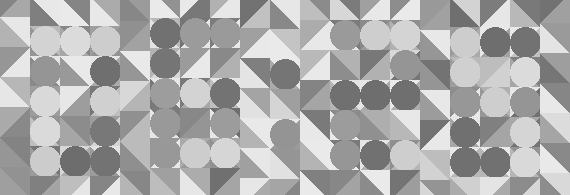
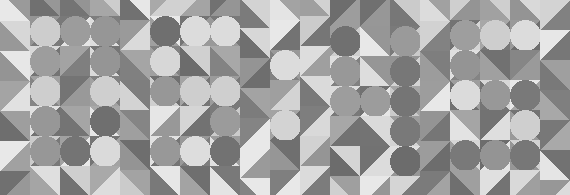
update readme; regenerate examples;

diff --git a/README.md b/README.md
@@ -5,12 +5,11 @@ Dynamically generated, AI-resistant captcha images.
 
 *Can you tell what time it is? AI can't.*
 
-Color-captcha uses high-order shapes to hide meaningful content from an AI. 
-AI can recognize that the image is made up of triangles, squares and circles. 
-However, it cannot distinguish higher-order shapes that appear in the image. 
-Variable, randomized colors make this task even more difficult for the machine
-as it observes RGB layers separately. 
-To the human eye, however, the numbers are clearly visible. 
+Color-captcha uses higher-order shapes to hide the information from an AI. 
+AI can recognize that the image is made up of triangles, squares and circles.
+However, it cannot recognize that these shapes form more complex higher-order shapes, in this case numbers. 
+The numbers, therefore, remain hidden in plain sight.
+The human eye, on the other hand, should be able to see the numbers with very little effort. 
 
 Features:
 * `ClockCaptcha` and `DigitsCaptcha` generators.
@@ -51,8 +50,8 @@ captcha.save_image('new_captcha.png')
 ```
 
 #### DigitsCaptcha
-Follows the same usage as ClockCaptcha except it can generate arbitrary number of 
-digits, and is not in the clock format.
+Same usage as ClockCaptcha except it can generate arbitrary number of 
+digits, and is not in the clock format, just plain digits. 
 
 ```python
 from color_captcha import DigitsCaptcha
@@ -64,10 +63,9 @@ captcha.generate_new()
 ```
 
 #### Size parameter
-Both ClockCaptcha and DigitsCaptcha have a `size` parameter. 
-This parameter changes the size of the image.
-Below are size parameter values and corresponding pixel values of the ClockCaptcha image.
-DigitsCaptcha varies in pixel size. 
+Both ClockCaptcha and DigitsCaptcha have the `size` parameter, which changes the size of the image.
+Below relative values in pixels for the ClockCaptcha image. 
+DigitsCaptcha images vary in width depending on the number of digits. 
 
 ClockCaptcha sizes:
 
@@ -84,9 +82,9 @@ Configuration changes are applied globally.
 * `colors`: list of base colors in hex format (full 6 characters required).
 * `base_variation_percent`: max \*variation of the color in the background.  
 * `content_variation_percent`: max \*variation of colors of the numbers.
-be
-\* Variation percent means the color will be modified by percentage of the original color value.
-Setting the variation percent to 0 means the base colors will remain unchanged.
+
+\*Percent increase of non-dominant colors in a pixel.
+To turn off color variation set these parameters to 0.
 
 ```python
 from color_captcha.config import Config
@@ -94,15 +92,10 @@ from color_captcha.config import Config
 Config.colors = ['#ec7063', '...']  # minimum 3 colors required
 Config.base_variation_percent = 0.30
 Config.content_variation_percent = 0.15
-
 ```
 
 ⚠ **Important to consider:** 
-Increased difference in color variation between background and number can make numbers stand out more. 
+Difference in color variation between background and numbers can make the numbers stand out more. 
 If this difference is too great the AI may pick up on that and be able to detect numbers. 
 The default values of 0.15 and 0.30 should be good for now, but may need to change in the future. 
 
-<hr>
-
-If you have ideas for improvements or notice a deficiency of this captcha please consider 
-joining the discussion [here](https://github.com/stefs304/color-captcha/discussions/3).
